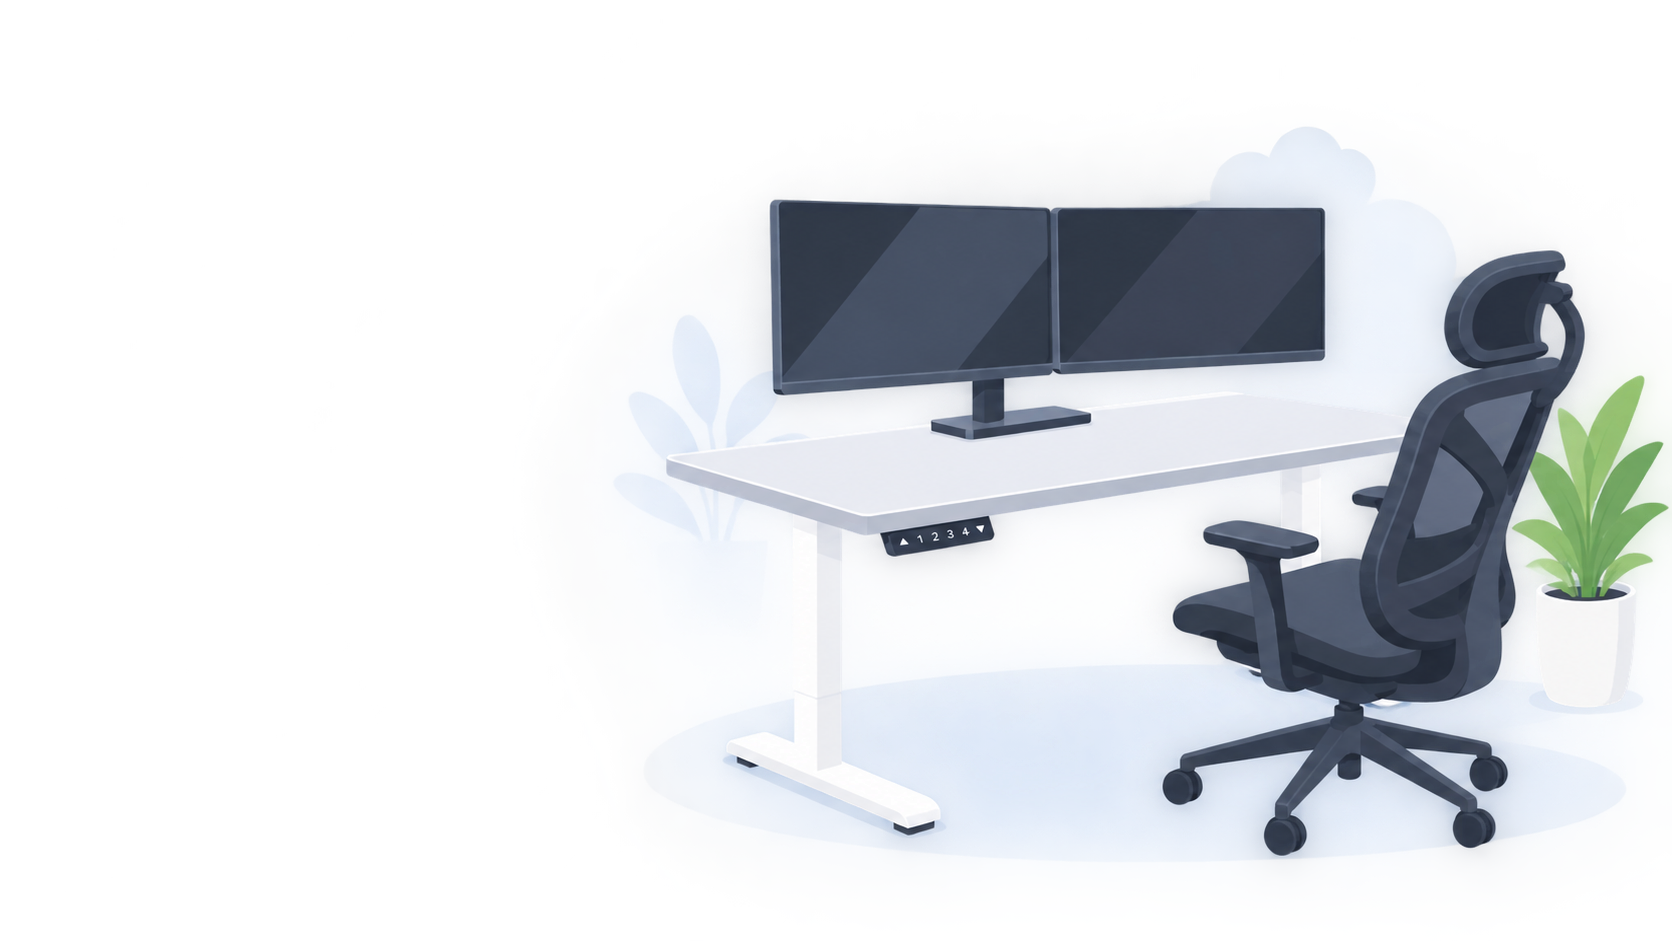
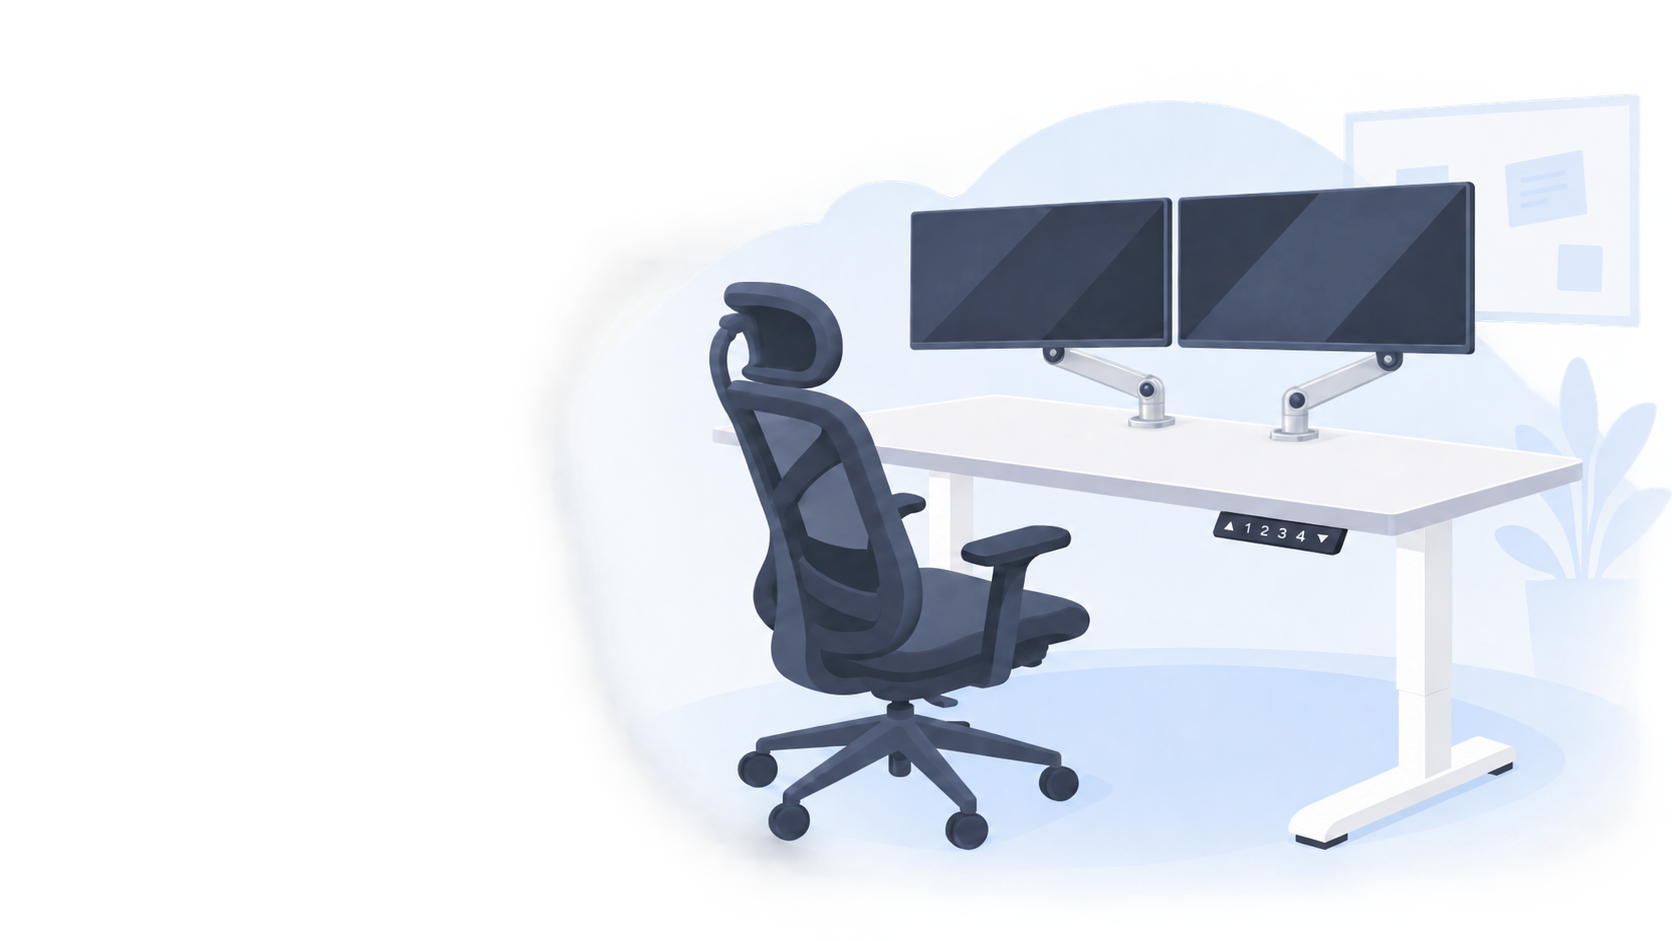
Refine Cowork card illustrations and copy

Changed region(s): [[0.4043, 0.0925, 1.0, 0.9245]]

diff --git a/apps/deskohub-workspace/features/cowork/components/cowork-reservation-form.test.tsx b/apps/deskohub-workspace/features/cowork/components/cowork-reservation-form.test.tsx
@@ -1949,10 +1949,9 @@ describe("CoworkReservationForm advertised pricing", () => {
     const expectations = [
       {
         locale: "en-US",
-        openSpaceDescription:
-          "Shared desk, available until 17:00 on your reserved day.",
+        openSpaceDescription: "Sit wherever you like, available until 17:00.",
         openSpaceWifi: "High-speed Wi-Fi",
-        reservedDeskDescription: "Reserved desk",
+        reservedDeskDescription: "Your own desk for uninterrupted flow.",
         reservedDeskAccess: "24/7 access on your reserved day",
         reservedDeskCoffee: "Coffee included",
         reservedDeskMonitor: "Optional monitor workstation",
@@ -1960,10 +1959,9 @@ describe("CoworkReservationForm advertised pricing", () => {
       },
       {
         locale: "cs-CZ",
-        openSpaceDescription:
-          "Sdílené místo v open space, k dispozici do 17:00 v den tvé rezervace.",
+        openSpaceDescription: "Seďte, kde chcete, k dispozici do 17:00.",
         openSpaceWifi: "Vysokorychlostní Wi-Fi",
-        reservedDeskDescription: "Vyhrazené místo",
+        reservedDeskDescription: "Váš vlastní stůl pro nepřetržitý flow.",
         reservedDeskAccess: "24/7 přístup v den tvé rezervace",
         reservedDeskCoffee: "Káva v ceně",
         reservedDeskMonitor: "Možnost přidat monitory a dock",

diff --git a/apps/deskohub-workspace/features/cowork/components/cowork-reservation-form.tsx b/apps/deskohub-workspace/features/cowork/components/cowork-reservation-form.tsx
@@ -686,7 +686,13 @@ export function CoworkReservationForm({
                         <Image
                           aria-hidden="true"
                           alt=""
-                          className="absolute top-0 right-0 h-auto w-[280%] max-w-[440px] translate-x-[10%] -translate-y-[25%] object-contain object-right-top"
+                          className={cn(
+                            "absolute top-0 right-0 h-auto w-[280%] max-w-[440px] -translate-y-[25%] object-contain object-right-top",
+                            {
+                              "open-space": "translate-x-[10%]",
+                              "reserved-desk": "translate-x-[20%]",
+                            }[option.value]
+                          )}
                           height={941}
                           sizes="(min-width: 1024px) 440px, 280px"
                           src={artworkSource}
